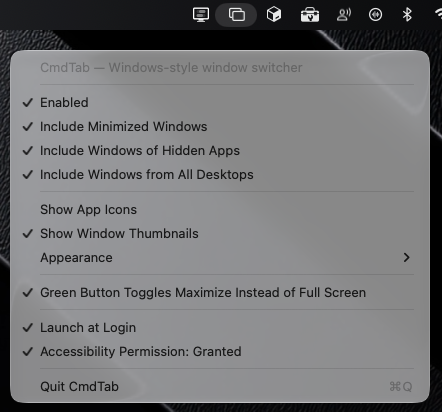
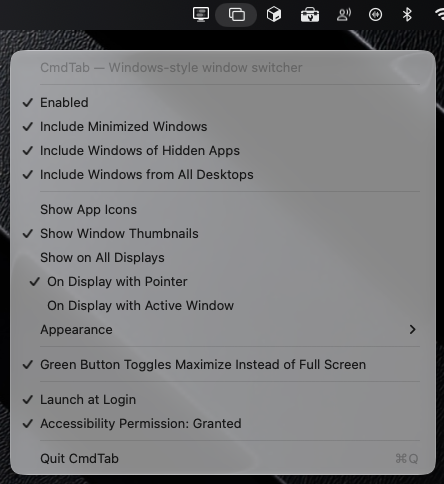
feat: add multi-display switcher support with display options and panel borders

diff --git a/Sources/SwitcherController.swift b/Sources/SwitcherController.swift
@@ -3,7 +3,11 @@ import AppKit
 /// State machine for one Cmd+Tab session: begin -> move* -> commit | cancel.
 @MainActor
 final class SwitcherController {
-    private let panel = SwitcherPanel()
+    /// One panel per display it's shown on. The first is on the display with the pointer and drives grid navigation.
+    private var panels: [SwitcherPanel] = []
+    private var shownPanels: ArraySlice<SwitcherPanel> = []
+    /// The displays for this session, picked when the grid first appears so redraws don't make it jump.
+    private var screens: [NSScreen] = []
     private var windows: [SwitcherWindow] = []
     private var selected = 0
     private var pendingShow: DispatchWorkItem?
@@ -15,7 +19,8 @@ final class SwitcherController {
     /// A quick Cmd+Tab tap shorter than this switches without ever flashing the UI (like Windows).
     private let showDelay: TimeInterval = 0.12
 
-    init() {
+    private func makePanel() -> SwitcherPanel {
+        let panel = SwitcherPanel()
         panel.onHover = { [weak self] i in self?.select(i) }
         panel.onClick = { [weak self] i in
             guard let self else { return }
@@ -23,6 +28,37 @@ final class SwitcherController {
             self.commit()
             self.onFinished?()
         }
+        return panel
+    }
+
+    private var isVisible: Bool { shownPanels.first?.isVisible ?? false }
+
+    /// Shows the grid on every display, or on the one with the pointer or the active window, per the settings.
+    private func showPanels() {
+        if screens.isEmpty {
+            let pointer = NSScreen.containing(NSEvent.mouseLocation)
+            if Settings.showOnAllDisplays {
+                screens = [pointer] + NSScreen.screens.filter { $0 != pointer }
+            } else {
+                screens = [Settings.switcherDisplay == "activeWindow" ? activeWindowScreen() ?? pointer : pointer]
+            }
+        }
+        while panels.count < screens.count { panels.append(makePanel()) }
+        panels[screens.count...].forEach { $0.dismiss() }
+        shownPanels = panels[..<screens.count]
+        for (panel, screen) in zip(shownPanels, screens) { panel.show(windows: windows, selected: selected, on: screen) }
+    }
+
+    /// The display showing most of the frontmost window (the one you're switching away from).
+    private func activeWindowScreen() -> NSScreen? {
+        guard let app = NSWorkspace.shared.frontmostApplication,
+              let win = AX.element(AXUIElementCreateApplication(app.processIdentifier), kAXFocusedWindowAttribute),
+              let axFrame = AX.frame(win), let primary = NSScreen.screens.first else { return nil }
+        // AX uses top-left origin on the primary display; AppKit uses bottom-left.
+        let frame = NSRect(x: axFrame.minX, y: primary.frame.maxY - axFrame.maxY, width: axFrame.width, height: axFrame.height)
+        func overlap(_ s: NSScreen) -> CGFloat { let r = s.frame.intersection(frame); return r.isNull ? 0 : r.width * r.height }
+        guard let best = NSScreen.screens.max(by: { overlap($0) < overlap($1) }), overlap(best) > 0 else { return nil }
+        return best
     }
 
     func begin(backwards: Bool) {
@@ -33,7 +69,7 @@ final class SwitcherController {
         if Settings.showThumbnails {
             Thumbnails.shared.refresh(windows.map(\.id)) { [weak self] id, image in
                 guard let self, self.running else { return }
-                self.panel.setThumbnail(image, for: id)
+                self.shownPanels.forEach { $0.setThumbnail(image, for: id) }
             }
         }
 
@@ -50,7 +86,7 @@ final class SwitcherController {
 
     func moveRow(_ delta: Int) {
         guard running, !windows.isEmpty else { return }
-        let target = selected + delta * panel.columns
+        let target = selected + delta * (shownPanels.first?.columns ?? 1)
         if windows.indices.contains(target) { select(target) }
         showNow()
     }
@@ -164,7 +200,7 @@ final class SwitcherController {
 
     /// Re-lays out the grid after windows were removed or changed state, keeping the order and selection.
     private func redraw() {
-        panel.show(windows: windows, selected: selected)
+        showPanels()
         pendingShow?.cancel()
         pendingShow = nil
     }
@@ -172,21 +208,23 @@ final class SwitcherController {
     private func select(_ i: Int) {
         guard windows.indices.contains(i) else { return }
         selected = i
-        if panel.isVisible { panel.setSelected(i) }
+        if isVisible { shownPanels.forEach { $0.setSelected(i) } }
     }
 
     private func showNow() {
         pendingShow?.cancel()
         pendingShow = nil
-        guard running, !windows.isEmpty, !panel.isVisible else { return }
-        panel.show(windows: windows, selected: selected)
+        guard running, !windows.isEmpty, !isVisible else { return }
+        showPanels()
     }
 
     private func reset() {
         running = false
         pendingShow?.cancel()
         pendingShow = nil
-        panel.dismiss()
+        panels.forEach { $0.dismiss() }
+        shownPanels = []
+        screens = []
         windows = []
     }
 }

diff --git a/Sources/AppDelegate.swift b/Sources/AppDelegate.swift
@@ -5,7 +5,7 @@ enum Settings {
     private static let d = UserDefaults.standard
 
     static func register() {
-        d.register(defaults: ["enabled": true, "includeMinimized": true, "includeHiddenApps": true, "includeAllSpaces": false, "showThumbnails": false, "appearance": "system", "greenButtonZooms": true])
+        d.register(defaults: ["enabled": true, "includeMinimized": true, "includeHiddenApps": true, "includeAllSpaces": false, "showOnAllDisplays": true, "switcherDisplay": "pointer", "showThumbnails": false, "appearance": "system", "greenButtonZooms": true])
     }
 
     static var enabled: Bool {
@@ -24,6 +24,17 @@ enum Settings {
     static var includeAllSpaces: Bool {
         get { d.bool(forKey: "includeAllSpaces") }
         set { d.set(newValue, forKey: "includeAllSpaces") }
+    }
+    /// Show the switcher on every display, not just the one with the pointer.
+    static var showOnAllDisplays: Bool {
+        get { d.bool(forKey: "showOnAllDisplays") }
+        set { d.set(newValue, forKey: "showOnAllDisplays") }
+    }
+    /// With showOnAllDisplays off, where the switcher appears: "pointer" (the display with the mouse pointer) or
+    /// "activeWindow" (the display with the frontmost window).
+    static var switcherDisplay: String {
+        get { d.string(forKey: "switcherDisplay") ?? "pointer" }
+        set { d.set(newValue, forKey: "switcherDisplay") }
     }
     static var showThumbnails: Bool {
         get { d.bool(forKey: "showThumbnails") }
@@ -54,6 +65,13 @@ final class AppDelegate: NSObject, NSApplicationDelegate, NSMenuDelegate {
     private let minimizedItem = NSMenuItem(title: "Include Minimized Windows", action: #selector(toggleMinimized), keyEquivalent: "")
     private let hiddenItem = NSMenuItem(title: "Include Windows of Hidden Apps", action: #selector(toggleHidden), keyEquivalent: "")
     private let allSpacesItem = NSMenuItem(title: "Include Windows from All Desktops", action: #selector(toggleAllSpaces), keyEquivalent: "")
+    private let allDisplaysItem = NSMenuItem(title: "Show on All Displays", action: #selector(toggleAllDisplays), keyEquivalent: "")
+    private let displayItems = [("On Display with Pointer", "pointer"), ("On Display with Active Window", "activeWindow")].map { title, value in
+        let item = NSMenuItem(title: title, action: #selector(setSwitcherDisplay(_:)), keyEquivalent: "")
+        item.representedObject = value
+        item.indentationLevel = 1
+        return item
+    }
     private let iconsItem = NSMenuItem(title: "Show App Icons", action: #selector(showIcons), keyEquivalent: "")
     private let thumbnailsItem = NSMenuItem(title: "Show Window Thumbnails", action: #selector(showThumbnails), keyEquivalent: "")
     private let appearanceItems = [("System", "system"), ("Light", "light"), ("Dark", "dark")].map { title, value in
@@ -143,6 +161,8 @@ final class AppDelegate: NSObject, NSApplicationDelegate, NSMenuDelegate {
         menu.addItem(.separator())
         menu.addItem(iconsItem)
         menu.addItem(thumbnailsItem)
+        menu.addItem(allDisplaysItem)
+        displayItems.forEach(menu.addItem)
         let appearanceMenu = NSMenu()
         for item in appearanceItems {
             item.target = self
@@ -170,6 +190,10 @@ final class AppDelegate: NSObject, NSApplicationDelegate, NSMenuDelegate {
         minimizedItem.state = Settings.includeMinimized ? .on : .off
         hiddenItem.state = Settings.includeHiddenApps ? .on : .off
         allSpacesItem.state = Settings.includeAllSpaces ? .on : .off
+        allDisplaysItem.state = Settings.showOnAllDisplays ? .on : .off
+        for item in displayItems {
+            item.state = item.representedObject as? String == Settings.switcherDisplay ? .on : .off
+        }
         iconsItem.state = Settings.showThumbnails ? .off : .on
         thumbnailsItem.state = Settings.showThumbnails ? .on : .off
         for item in appearanceItems {
@@ -216,6 +240,22 @@ final class AppDelegate: NSObject, NSApplicationDelegate, NSMenuDelegate {
     @objc private func toggleAllSpaces() {
         Settings.includeAllSpaces.toggle()
         updateMenu()
+    }
+
+    @objc private func toggleAllDisplays() {
+        Settings.showOnAllDisplays.toggle()
+        updateMenu()
+    }
+
+    @objc private func setSwitcherDisplay(_ sender: NSMenuItem) {
+        guard let value = sender.representedObject as? String else { return }
+        Settings.switcherDisplay = value
+        updateMenu()
+    }
+
+    /// The display choices only matter while the switcher isn't shown on every display.
+    @objc func validateMenuItem(_ item: NSMenuItem) -> Bool {
+        displayItems.contains(item) ? !Settings.showOnAllDisplays : true
     }
 
     @objc private func showIcons() {

diff --git a/Sources/SwitcherPanel.swift b/Sources/SwitcherPanel.swift
@@ -46,6 +46,8 @@ final class SwitcherPanel: OverlayPanel {
     private let content = NSView()
     /// Only in the pre-Liquid Glass fallback: tones down the blur's see-through look.
     private var tint: NSView?
+    /// A hairline in the opposite tone of the panel, so it doesn't melt into a matching light or dark background.
+    private let border = NSView()
     private let titleLabel = NSTextField(labelWithString: "")
     private let tooltip = TooltipWindow()
     private var pendingTooltip: DispatchWorkItem?
@@ -93,6 +95,12 @@ final class SwitcherPanel: OverlayPanel {
             background.addSubview(content)
         }
 
+        border.wantsLayer = true
+        border.layer?.cornerRadius = cornerRadius
+        border.layer?.borderWidth = 1
+        border.autoresizingMask = [.width, .height]
+        content.addSubview(border)
+
         titleLabel.font = .systemFont(ofSize: 12, weight: .semibold)
         titleLabel.textColor = .labelColor
         titleLabel.alignment = .center
@@ -100,7 +108,7 @@ final class SwitcherPanel: OverlayPanel {
         content.addSubview(titleLabel)
     }
 
-    func show(windows: [SwitcherWindow], selected: Int) {
+    func show(windows: [SwitcherWindow], selected: Int, on screen: NSScreen) {
         hideTooltip()
         windowsShown = windows
         items.forEach { $0.removeFromSuperview() }
@@ -108,13 +116,15 @@ final class SwitcherPanel: OverlayPanel {
 
         let mouse = NSEvent.mouseLocation
         mouseAtShow = mouse
-        let area = NSScreen.containing(mouse).visibleFrame
+        let area = screen.visibleFrame
 
         switch Settings.appearance {
         case "light": contentAppearance = NSAppearance(named: .aqua)!
         case "dark": contentAppearance = NSAppearance(named: .darkAqua)!
         default: contentAppearance = NSApp.effectiveAppearance // follow the system
         }
+        let dark = contentAppearance.bestMatch(from: [.aqua, .darkAqua]) == .darkAqua
+        border.layer?.borderColor = (dark ? NSColor.white.withAlphaComponent(0.3) : NSColor.black.withAlphaComponent(0.25)).cgColor
         if let tint {
             contentAppearance.performAsCurrentDrawingAppearance {
                 tint.layer?.backgroundColor = NSColor.windowBackgroundColor.withAlphaComponent(0.55).cgColor
@@ -146,6 +156,7 @@ final class SwitcherPanel: OverlayPanel {
         let frame = NSRect(x: area.midX - width / 2, y: area.midY - height / 2, width: width, height: height)
         setFrame(frame, display: false)
         content.frame = NSRect(x: 0, y: 0, width: width, height: height)
+        border.frame = content.bounds
         invalidateShadow()
 
         titleLabel.isHidden = thumbnails
@@ -171,6 +182,7 @@ final class SwitcherPanel: OverlayPanel {
             items.append(item)
         }
 
+        content.addSubview(border, positioned: .above, relativeTo: nil)
         setSelected(selected)
         alphaValue = 1
         orderFrontRegardless()

diff --git a/README.md b/README.md
@@ -65,6 +65,7 @@ The menu bar icon has these options:
 - **Include Minimized Windows** / **Include Windows of Hidden Apps**: show or skip those windows.
 - **Include Windows from All Desktops**: also list windows on other Spaces (desktops), including full-screen ones. Picking one switches to its desktop. Off by default.
 - **Show App Icons** / **Show Window Thumbnails**: choose the view.
+- **Show on All Displays**: show the switcher on every display, not just the one with the pointer. On by default. Arrow keys follow the grid on the pointer's display. When it's off, choose **On Display with Pointer** or **On Display with Active Window** (the display showing most of the frontmost window).
 - **Appearance**: System, Light or Dark, for the switcher panel only.
 - **Green Button Toggles Maximize Instead of Full Screen**: see [Green button](#green-button). On by default.
 - **Launch at Login**
